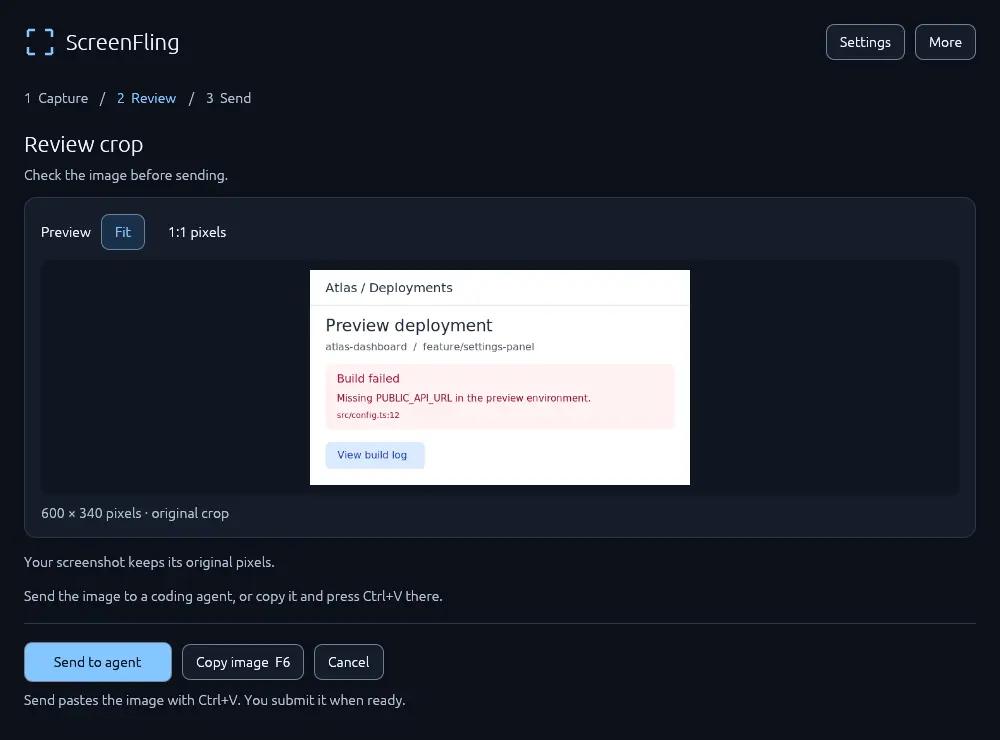
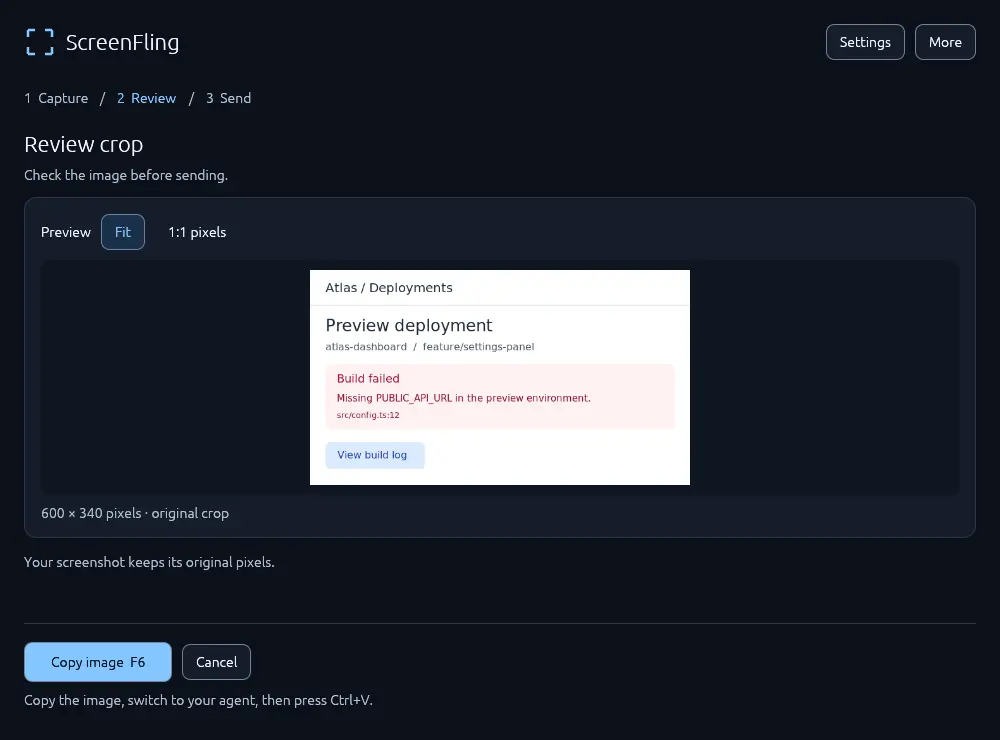
Refresh README evidence for the simplified workflow

diff --git a/docs/DEVELOPMENT.md b/docs/DEVELOPMENT.md
@@ -48,7 +48,7 @@ xvfb-run -a -s '-screen 0 1280x800x24 -noreset' python3 scripts/check-send.py
 
 X11 capture tests compare every cropped pixel against an independent reference after the live desktop changes. They also test cancellation, overlay bounds and minimized/maximized windows. The Wayland fixture performs the same pixel check at 125% scale inside headless Sway with real portal/PipeWire services; its Ubuntu 26.04 container command is in `.github/workflows/check.yml`.
 
-The paste fixture starts two raw-input receivers in real Xfce Terminal windows. It remembers the original terminal, deliberately focuses the other one, and requests Paste back. The original must receive only Ctrl+V, read the exact PNG bytes from the clipboard, and receive no Enter; the other must receive nothing. No receiver pretends to be a named coding agent. This verifies transport, not agent attachment.
+The paste fixture starts two raw-input receivers in real Xfce Terminal windows. It remembers the original terminal, deliberately focuses the other one, and requests Paste back. The original must receive only Ctrl+V, read the exact PNG bytes from the clipboard, and receive no Enter; the other must receive nothing. It also launches the actual app, captures through its global shortcut, reviews the image and clicks Paste back. No receiver pretends to be a named coding agent. This verifies transport, not agent attachment.
 
 Windows/macOS use a separate-process image clipboard check. Windows also captures and verifies a synthetic window. **Run this only on a disposable desktop; it replaces the clipboard:**
 

diff --git a/docs/VISUALS.md b/docs/VISUALS.md
@@ -18,6 +18,8 @@ Run with ImageMagick, DejaVu Sans and the other [fixture dependencies](DEVELOPME
 
 Screens and reports are saved under `dist/visuals/`. Inspect idle, settings, selection, review, 1:1 scrolling, compact layouts and result. Screenshot dimensions alone do not prove usability. The README preview is copied from this actual-app evidence, not a separately drawn mockup.
 
+The current README preview comes from [CI run 36170817173](https://github.com/d-sandhu/screenfling/actions/runs/36170817173) at `cc7280a`. That run also records the optional Paste back action in `paste-back-review.png` and its delivery results in `smoke-send.json`.
+
 ## Manual acceptance
 
 Windows/macOS rendering, native DPI changes, input methods, assistive technology and physical multi-display behavior still need desktop acceptance. Xvfb evidence does not establish those results. Agent attachment must be verified in the receiving agent, separately from UI or transport tests.
